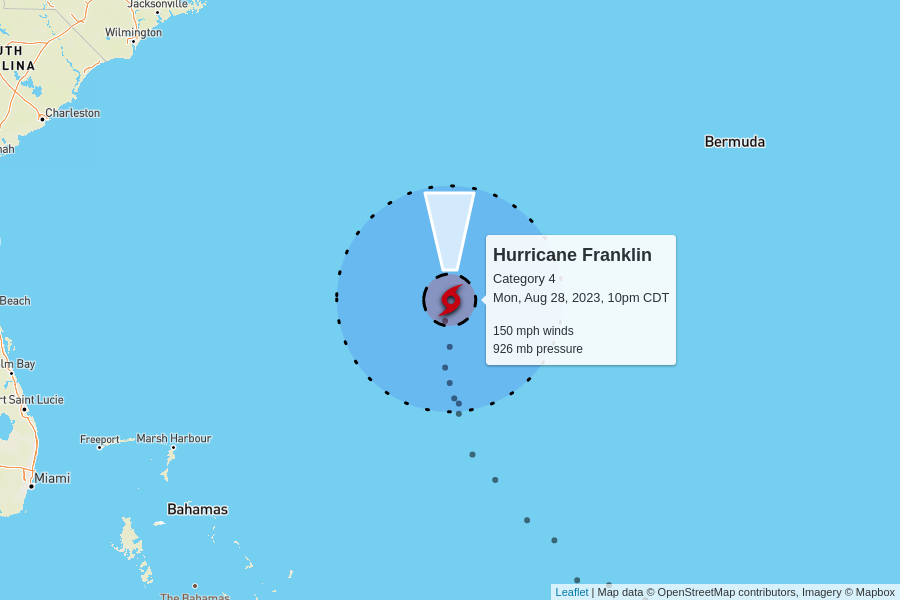
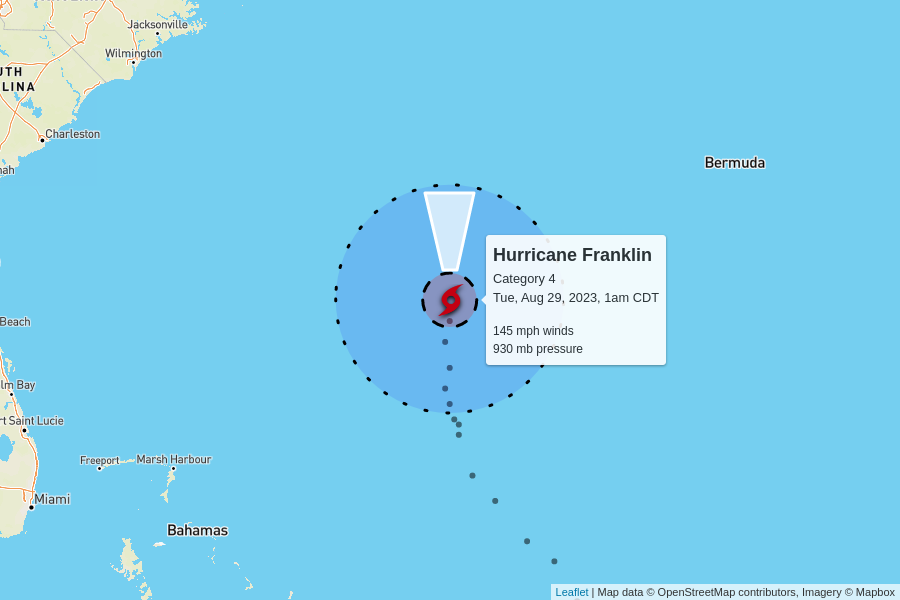
automatic update

diff --git a/docs/index.html b/docs/index.html
@@ -100,7 +100,7 @@
         <td colspan="6" class="storm category-4" >
           <h2>
             Hurricane Franklin - Category 4
-            <p class="updated">last updated <span data-time>2023-08-29T03:00:00.000Z</span></p>
+            <p class="updated">last updated <span data-time>2023-08-29T06:00:00.000Z</span></p>
           </h2>
         </td>
       </tr>
@@ -115,8 +115,8 @@
       </tr>
       <tr>
         <td class="spacer"></td>
-        <td>150 mph</td>
-        <td>926 mb</td>
+        <td>145 mph</td>
+        <td>930 mb</td>
         <td>
           9 mph to the north
           <br/>
@@ -144,7 +144,7 @@
         <td colspan="6" class="storm category-0" >
           <h2>
             Tropical Storm Idalia
-            <p class="updated">last updated <span data-time>2023-08-29T03:00:00.000Z</span></p>
+            <p class="updated">last updated <span data-time>2023-08-29T06:00:00.000Z</span></p>
           </h2>
         </td>
       </tr>
